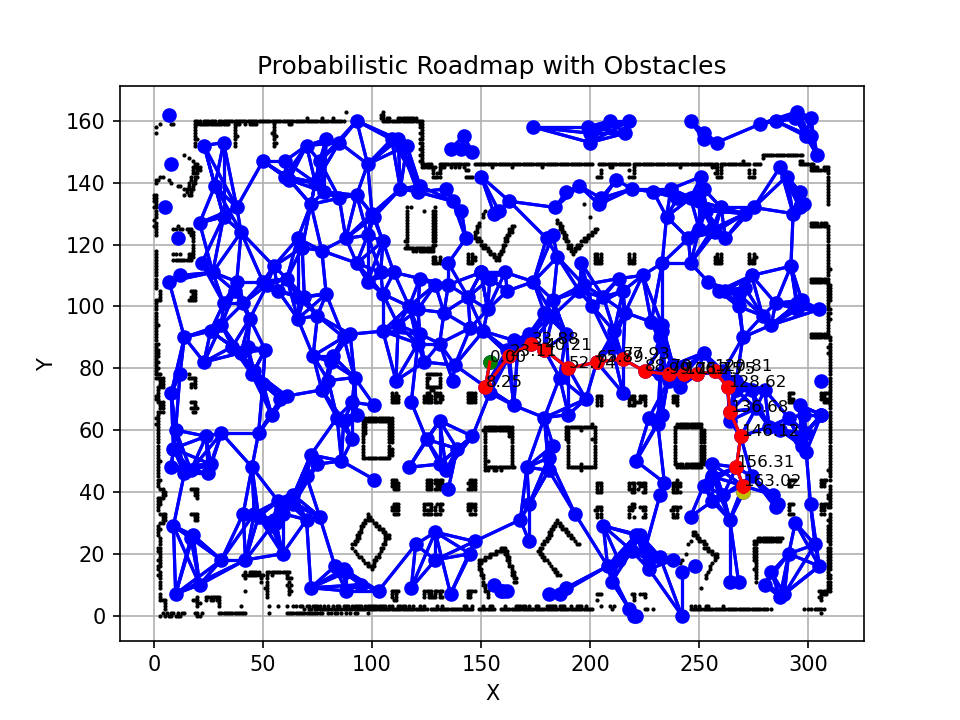
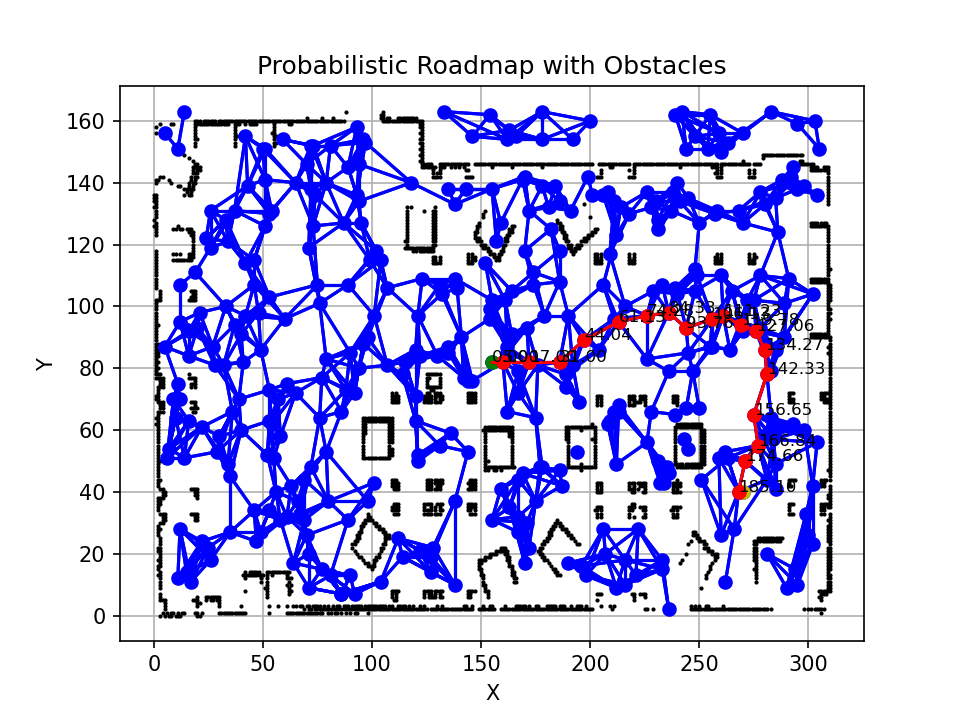
working exploration

Changed region(s): [[0.1562, 0.1528, 0.875, 0.8861]]

diff --git a/src/my_turtlebot/my_turtlebot/exploration.py b/src/my_turtlebot/my_turtlebot/exploration.py
@@ -1,0 +1,279 @@
+"""
+Implement the planner for the turtlebot.
+
+We will use a probabilistic roadmap (PRM) to plan the path for the turtlebot. The following steps will be implemented:
+- Subscribe to the map topic
+- Generate random nodes
+- Compute edges between the nodes
+- Find the start and goal nodes
+- Find the path using Djikstra's algorithm
+- Publish the path as a list of points and directions
+
+Extend the Planner class so it sets the new point to a place which needs to be explored.
+
+"""
+
+import rclpy
+from rclpy.qos import (
+    QoSProfile,
+    QoSReliabilityPolicy,
+    QoSHistoryPolicy,
+    QoSDurabilityPolicy,
+)
+from rclpy.node import Node
+from nav_msgs.msg import OccupancyGrid, Odometry
+from geometry_msgs.msg import Point, PoseStamped, Pose
+from my_turtlebot.utils.djikstras import dijkstra 
+from my_turtlebot.utils.prm import PRM
+from geometry_msgs.msg import Twist
+from math import atan2, sqrt
+import math
+from scipy.spatial.transform import Rotation as Rot
+import numpy as np
+from my_turtlebot.utils import bresenham
+
+class PlannerNode(Node):
+    def __init__(self):
+        super().__init__('exploration_node')
+        self.map = None
+        self.robot_pose = None
+        self.state = "DONE"
+        self.prev_distance = math.inf
+        self.over_distance_counter = 0
+        map_profile = QoSProfile(
+            history=QoSHistoryPolicy.KEEP_LAST,
+            reliability=QoSReliabilityPolicy.RELIABLE,
+            durability=QoSDurabilityPolicy.TRANSIENT_LOCAL,
+            depth=1,
+        )
+        self.map_subscriber = self.create_subscription(
+            OccupancyGrid,
+            "/map",
+            self.map_callback,
+            map_profile
+        )
+        
+        # Get localization based on odomotry position
+        self.localization_subscriber = self.create_subscription(
+            Odometry,
+            '/odom',
+            self.localization_callback,
+            10
+        )
+        self.prm = None
+        self.path = []
+        self.path_publisher = self.create_publisher(PoseStamped, '/path', 10)
+        self.cmd_vel_publisher = self.create_publisher(Twist, '/cmd_vel', 10)
+        self.planner = self.create_timer(5, self.planner_timed_callback)
+        self.executor_ = self.create_timer(0.1, self.executor_timed_callback)
+
+        # Next-best-view parameters
+        self.num_views = 5
+        self.prev_gain = 0
+        self.lambda_ = 1
+        self.max_range = 3.5/2
+
+    def localization_callback(self, msg):
+        self.robot_pose = msg.pose.pose
+
+    def world_to_map(self, point):
+        """
+        Convert world coordinates to map coordinates.
+        """
+        x = point[0] / self.map_resolution
+        y = point[1] / self.map_resolution
+
+        x = int(x + self.map_width // 2)
+        y = int(y + self.map_height // 2)
+
+        return (x, y)
+
+    def get_start(self):
+        if self.robot_pose is not None:
+            self.get_logger().info(f"Robot pose: {self.robot_pose}")
+            return self.world_to_map((self.robot_pose.position.x, self.robot_pose.position.y))
+        else:
+            return (int(self.map_width/2), int(self.map_height/2))
+    
+
+    def calculate_information_info(self, node) -> int:
+        """
+        Calculate information gain given a node. The map consists of
+        unknown cells (-1), free cells (0) and occupied cells (> threshold).
+
+        We only take the area surrounding the node into account, using raycasting of laserscan.
+
+        The gain corresponds to the number of unknown cells in the area surrounding the node.
+        """
+        x, y = node
+        unknown_cells = set()
+        free_cells = set()
+        obstacle_cells = set()
+
+        map_dimensions = (self.map_width, self.map_height)
+
+        for angle in range(0, 360):
+            point_x = x + self.max_range/self.map_resolution * math.cos(math.radians(angle))
+            point_y = y + self.max_range/self.map_resolution * math.sin(math.radians(angle))
+            point = (int(point_x), int(point_y))
+
+            ray = bresenham(node, point)
+            for point in ray:
+                point = (int(point[0]), int(point[1]))
+                try:
+                    map_index = point[1] * map_dimensions[0] + point[0]
+                    cell_value = self.map_data[map_index]
+                    if cell_value == -1:
+                        unknown_cells.add(point)
+                    elif cell_value == 0:
+                        free_cells.add(point)
+                    elif cell_value > 0:
+                        obstacle_cells.add(point)
+                        break    # stop ray casting, go to next angle
+                except IndexError:  # when the point is out of the map, go to next angle
+                    break
+
+        return len(unknown_cells)
+    
+    def dist_between_nodes(self, node1, node2):
+        return math.sqrt((node1[0] - node2[0]) ** 2 + (node1[1] - node2[1]) ** 2)
+
+    
+    def next_best_view(self, start):
+        """
+        Find the next best view by maximizing the information gain.
+        """
+        for node in self.prm.nodes:
+            info = self.calculate_information_info(node)
+            weight = self.dist_between_nodes(node, start)
+            gain = self.prev_gain + info*np.exp(-self.lambda_ * weight)
+            if gain > self.prev_gain:
+                self.prev_gain = gain
+                best_view = node
+        self.get_logger().info(f"Best view: {best_view} with gain: {self.prev_gain}")
+        
+        return best_view
+        
+
+    def map_callback(self, msg):
+        self.map = msg
+        self.map_data = msg.data
+        self.map_info = msg.info
+        self.map_metadata = msg.info
+        self.map_resolution = self.map_metadata.resolution
+        self.map_width = self.map_metadata.width
+        self.map_height = self.map_metadata.height
+        self.map_origin = self.map_metadata.origin
+        
+    def create_prm(self, goal = None):
+        self.prm = PRM(num_nodes = 100, map_size = (self.map_width, self.map_height), num_neighbors = 6, map_resolution=self.map_resolution)
+        self.prm.dilate_map(self.map_data, clearance=0.2)
+        self.prm.generate_random_nodes()
+        self.prm.compute_edges()
+        start = self.get_start()
+        goal = self.next_best_view(start)
+        self.prm.add_start_and_goal(start, goal)
+        
+
+    def publish_path(self):
+        path_msg = PoseStamped()
+        path_msg.header.frame_id = "map"
+        for point in self.path:
+            pose = Pose()
+            pose.position.x = point[0]
+            pose.position.y = point[1]
+            path_msg.poses.append(pose)
+        self.path_publisher.publish(path_msg)
+
+    def executor_timed_callback(self):
+        # State machine which is either in ROTATE, DRIVE_FORWARD, GET_NEXT_POINT or DONE state
+        if self.state == "ROTATE":
+            self.rotate_to_angle(self.target_angle)
+        elif self.state == "DRIVE_FORWARD":
+            self.drive_forward_to_point(self.target_point)
+        elif self.state == "GET_NEXT_POINT" and len(self.path) > 0:
+            current_point = self.path.pop(0)
+            # Convert the point from map coordinates to world coordinates
+            self.target_point = self.prm.map_to_world((current_point['x'], current_point['y']))
+            # Its better to the current position of the robot from the odometry rather that the predicted position from the PRM so
+            # we can get the correct angle to the target point
+            self.target_angle = atan2(self.target_point[1] - self.robot_pose.position.y, self.target_point[0] - self.robot_pose.position.x) 
+            self.state = "ROTATE"
+            self.rotate_to_angle(self.target_angle)
+        elif self.state == "GET_NEXT_POINT" and len(self.path) == 0:
+            self.state = "DONE"
+        elif self.state == "DONE":
+            self.get_logger().info("Path execution completed")
+        else:
+            self.get_logger().info("Unknown state. Path planning has probably never started.")
+
+    def angle_from_quaternion(self, q):
+        # Needs an orientation from the pose message
+        r = Rot.from_quat([q.x, q.y, q.z, q.w])
+        return r.as_euler('zyx')[0]
+
+    def rotate_to_angle(self, target_angle):
+        current_angle = self.angle_from_quaternion(self.robot_pose.orientation)
+        error = target_angle - current_angle
+        twist = Twist()
+
+        # If the robot is not facing the target angle, rotate it
+        if abs(error) > 0.01:  # 0.01 is a small tolerance for the error
+            twist.angular.z = 0.075 if error > 0 else -0.075
+            self.cmd_vel_publisher.publish(twist)
+        else:
+            # If the robot is facing the target angle, stop rotating
+            twist.angular.z = 0.0
+            self.cmd_vel_publisher.publish(twist)
+            self.get_logger().info(f"Reached target angle: {target_angle}")
+            self.state = "DRIVE_FORWARD"
+        
+    def drive_forward_to_point(self, target_point):
+        # Get the current position of the robot
+        current_position = self.robot_pose.position
+
+        # Calculate the distance to the target point
+        dx = target_point[0] - current_position.x
+        dy = target_point[1] - current_position.y
+        distance = sqrt(dx**2 + dy**2)
+
+        # Create a Twist message
+        twist = Twist()
+
+        # If the robot is not at the target point, drive forward
+        if distance < 0.01 or self.over_distance_counter > 10:  # 0.01 is a small tolerance for the error
+            twist.linear.x = 0.0
+            self.get_logger().info("Reached target point")
+            self.cmd_vel_publisher.publish(twist)
+            self.state = "GET_NEXT_POINT"
+            self.over_distance_counter = 0
+        else:
+            # If the robot is at the target point, stop driving
+            twist.linear.x = 0.02
+            self.get_logger().info(f"Driving forward from {current_position} to {target_point}. Distance: {distance}")
+            self.cmd_vel_publisher.publish(twist)
+            if distance > self.prev_distance:
+                self.over_distance_counter += 1
+            else:
+                self.over_distance_counter = 0
+        self.prev_distance = distance
+
+    def planner_timed_callback(self):
+        if self.map is None:
+            self.get_logger().info("Map not yet received")
+            return
+        if len(self.path) == 0:
+            self.create_prm()
+            new_path, distances = dijkstra(self.prm.edges, self.prm.start_idx, self.prm.goal_idx)
+            self.get_logger().info(f"Path: {new_path}")
+            self.path = self.prm.get_path_info(new_path)[1:]
+            time = self.get_clock().now().nanoseconds
+            self.prm.plot(path = new_path, distances = distances, file_name = f"path_{time}.png")
+            self.state = "GET_NEXT_POINT"
+
+def main(args=None):
+    rclpy.init(args=args)
+    planner_node = PlannerNode()
+    rclpy.spin(planner_node)
+    planner_node.destroy_node()
+    rclpy.shutdown()

diff --git a/src/my_turtlebot/my_turtlebot/utils/prm.py b/src/my_turtlebot/my_turtlebot/utils/prm.py
@@ -85,8 +85,15 @@ class PRM:
         disk_radius = int(clearance / self.map_resolution)
 
         # Convert map_data to a 2D array
-        map_array = np.array(map_data).reshape((self.map_height, self.map_width))
+        map_array = np.array(self.map_data).reshape((self.map_height, self.map_width))
+
+        # Dilate map and make sure undicovered areas are not dilated
+        print(map_array)
+        undiscovered_area = np.where(map_array == -1)
+        print(f"Undiscovered area: {undiscovered_area}")
+        map_array[undiscovered_area] = 0
         dilated_map = dilation(map_array, disk(disk_radius))
+        dilated_map[undiscovered_area] = -1
 
         # Convert the dilated map back to a 1D array 
         self.map = dilated_map.ravel().tolist()
@@ -104,17 +111,28 @@ class PRM:
 
         return (x, y)
 
-    def generate_random_nodes(self):
+    def generate_random_nodes_old(self):
         for _ in range(self.num_nodes):
             collides = True
-            while collides:
-              x = np.random.randint(0, self.map_width)
-              y = np.random.randint(0, self.map_height)
-              # Check if nodes collides with obstacles
-              node = (x, y)
-              if not self.node_collides_obstacle(node):
-                collides = False
+            while collides: # Make sure the node is not inside an obstacle and only count it if it is not
+                x = np.random.randint(0, self.map_width)
+                y = np.random.randint(0, self.map_height)
+                # Check if nodes collides with obstacles
+                node = (x, y)
+                if not self.node_collides_obstacle(node):
+                    collides = False
             self.nodes.append(node)
+
+    def generate_random_nodes(self):
+        """
+        Generate nodes from valid points in the map.
+        """
+        valid_map_points = np.where(np.array(self.map) == 0)[0]
+        random_points = np.random.choice(valid_map_points, self.num_nodes)
+        for point in random_points:
+            x = point % self.map_width
+            y = point // self.map_width
+            self.nodes.append((x, y))
 
     def compute_edges(self):
         # Calculate the k-nearest neighbors, and store them for future use.
@@ -132,10 +150,11 @@ class PRM:
 
     def node_collides_obstacle(self, node):
         """
-        Check if the node collides with an obstacle in the map.
+        Check if the node collides with an obstacle in the map or is generated in undicovered map area (-1).
         """
         x, y = node
-        if self.map[y * self.map_width + x] > 0:
+        map_elem = self.map[y * self.map_width + x]
+        if map_elem > 20 or map_elem == -1:
             return True
         return False
 
@@ -148,11 +167,12 @@ class PRM:
 
     def add_start_and_goal(self, start, goal):
         if self.node_collides_obstacle(start):
-            print("Error: Starting point is not valid")
+            print(f"Error: Starting point is not valid, {start} with value {self.map[start[1] * self.map_width + start[0]]}")
             exit(-1)
 
         if self.node_collides_obstacle(goal):
             print("Error: Goal point is not valid")
+            print(f"Error: Starting point is not valid, {goal} with value {self.map[goal[1] * self.map_width + goal[0]]}")
             exit(-1)
 
         # Set start and goal positions, and add them to the nodes

diff --git a/src/my_turtlebot/my_turtlebot/map.py b/src/my_turtlebot/my_turtlebot/map.py
@@ -20,7 +20,7 @@ class MapPublisher(Node):
     def __init__(self):
         super().__init__('map_publisher_node')
         qos = QoSProfile(depth=1, durability=DurabilityPolicy.TRANSIENT_LOCAL)
-        self.map_publisher = self.create_publisher(OccupancyGrid, '/map2', qos)
+        self.map_publisher = self.create_publisher(OccupancyGrid, '/map', qos)
         self.tfb_ = TransformBroadcaster(self)
         self.map = OccupancyGrid()
         self.map.info.resolution = 0.05

diff --git a/src/my_turtlebot/setup.py b/src/my_turtlebot/setup.py
@@ -44,6 +44,7 @@ setup(
             'particle_estimation=my_turtlebot.particle_estimation:main',
             'particle_filter=my_turtlebot.particle_filter:main',
             'planner=my_turtlebot.planner:main',
+            'exploration=my_turtlebot.exploration:main',
         ],
     },
 )
